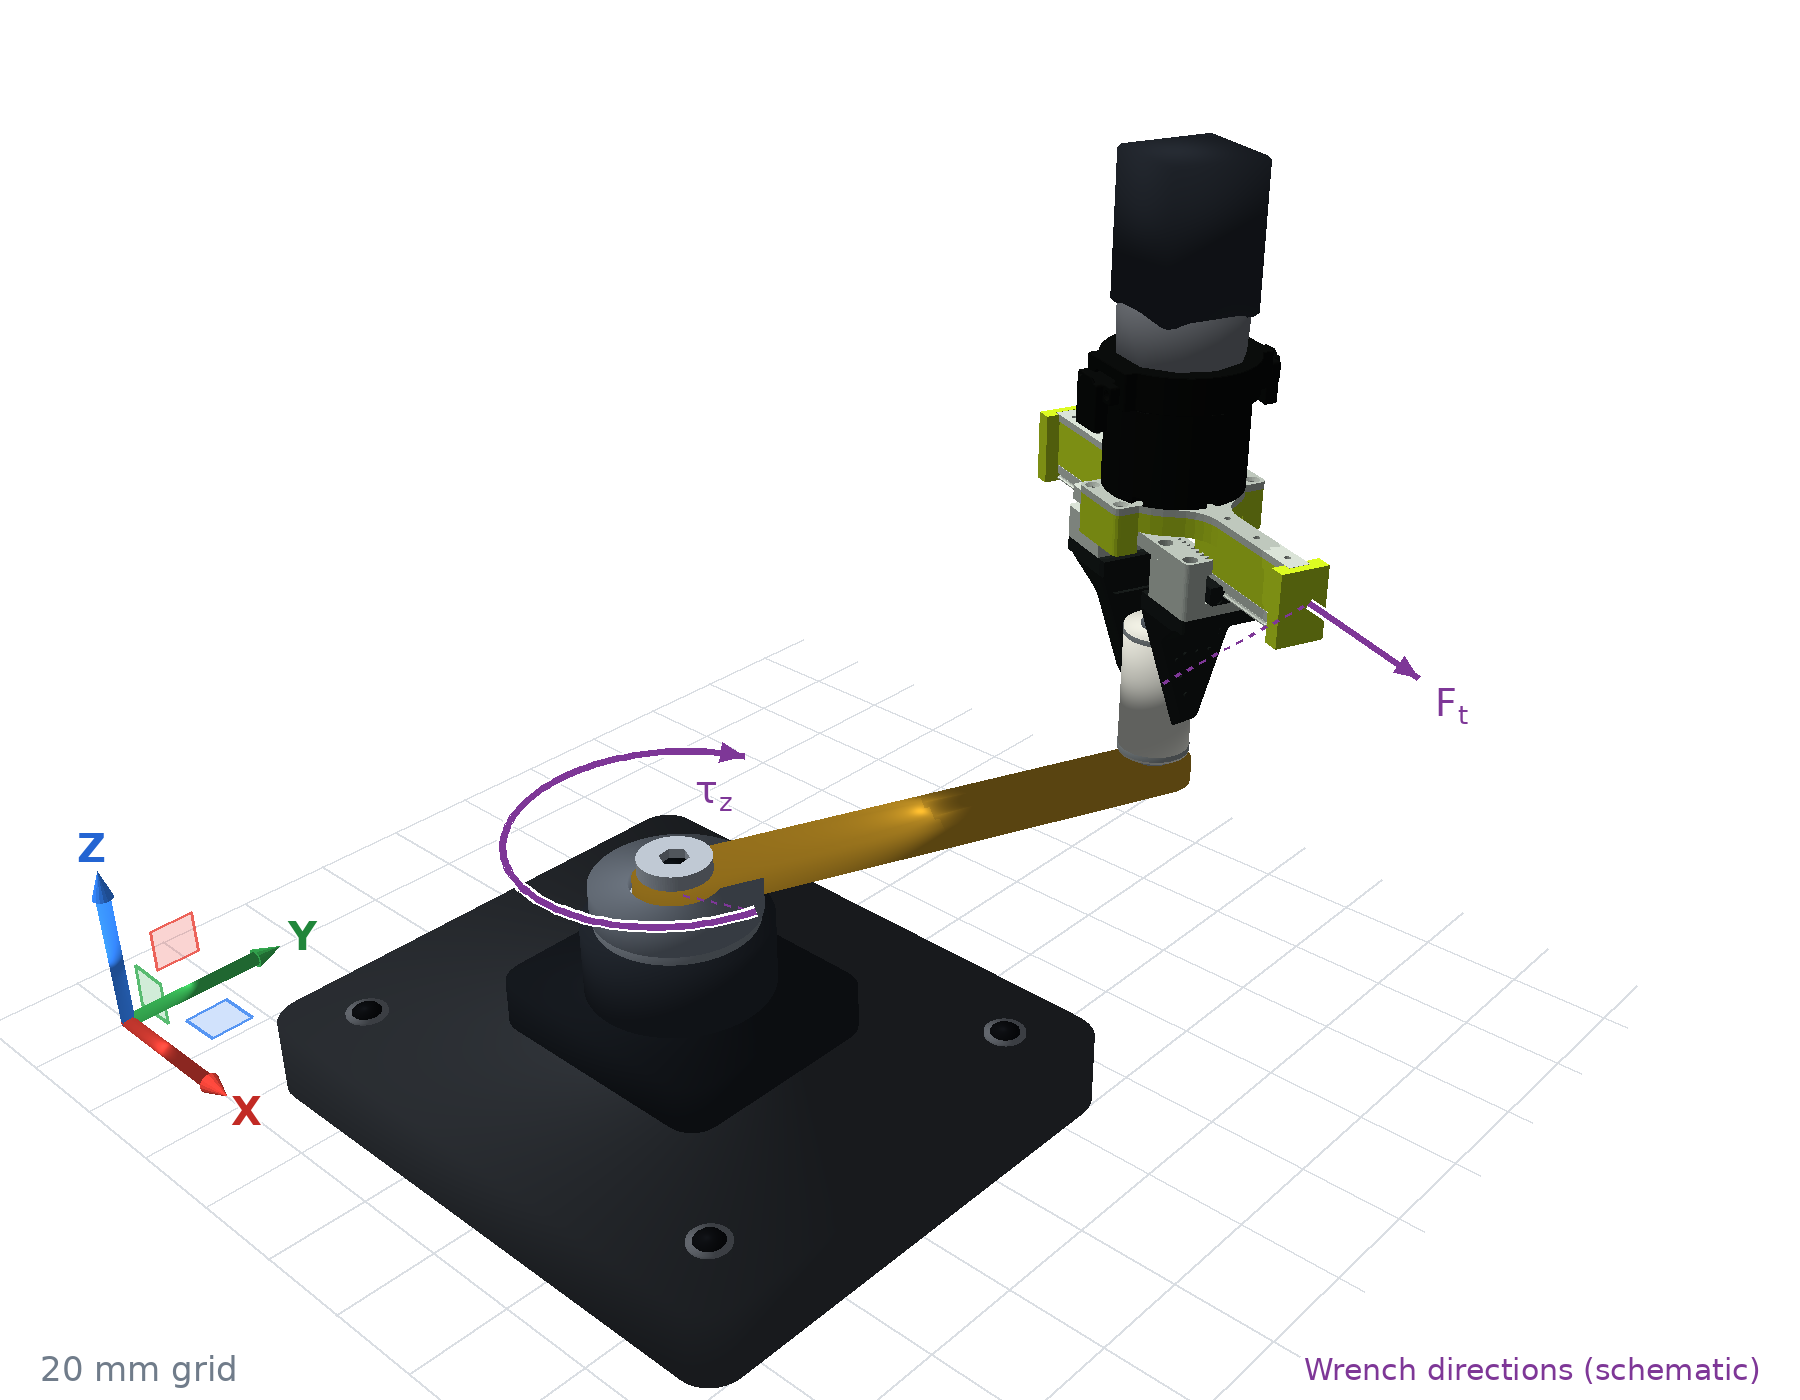
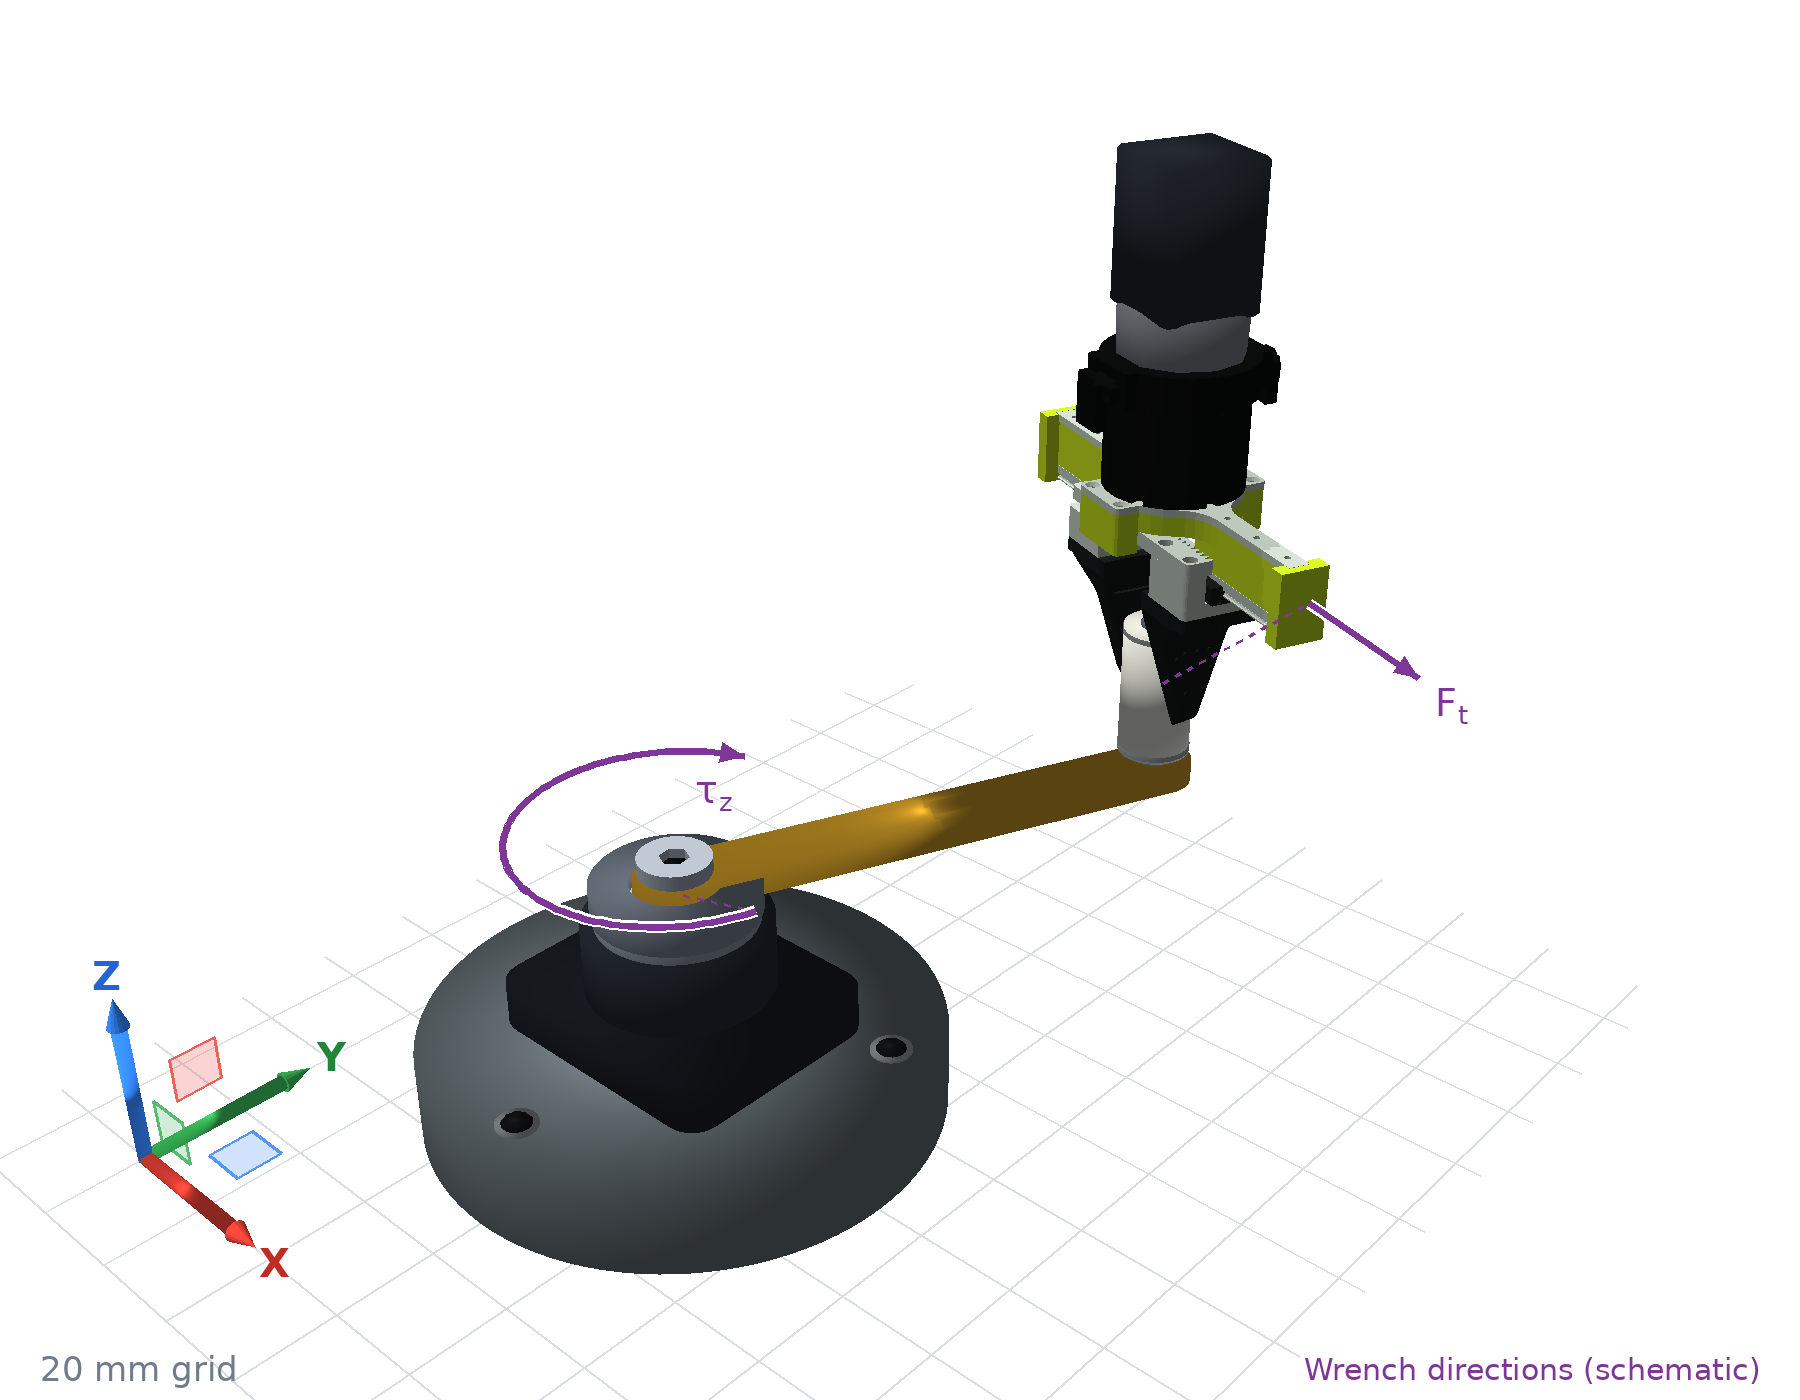
Give CRANK a circular bearing pedestal

Changed region(s): [[0.0311, 0.5836, 0.6222, 1.0], [0.1556, 0.645, 0.1867, 0.6757]]

diff --git a/scripts/render_crank_workspace_b601.py b/scripts/render_crank_workspace_b601.py
@@ -34,11 +34,12 @@ def render(*, output_dir=DEFAULT_OUTPUT_DIR, provenance_path=DEFAULT_PROVENANCE,
     q = p.getQuaternionFromEuler([0, 0, theta])
     cid = p.connect(p.DIRECT)
     try:
-        fixture = rounded_box(cid, [0.061, 0.052, 0.008], [0, 0, -0.008], [0.22, 0.24, 0.27, 1], radius=0.007)
-        for x in (-0.047, 0.047):
-            for y in (-0.038, 0.038):
-                annulus(cid, 0.002, 0.004, 0.0005, [x, y, 0.00025], [0.53, 0.56, 0.60, 1])
-                b601.make_cyl(cid, 0.002, 0.00025, [x, y, 0.0001], [0.06, 0.07, 0.085, 1])
+        # Circular bearing pedestal distinguishes the rotary fixture.
+        fixture = annulus(cid,0,.050,.016,[0,0,-.008],[.40,.44,.47,1])
+        for angle in (math.radians(30),math.radians(150),math.radians(270)):
+            x,y=.040*math.cos(angle),.040*math.sin(angle)
+            annulus(cid,.002,.004,.0005,[x,y,.00025],[.63,.66,.68,1])
+            b601.make_cyl(cid,.002,.0002,[x,y,.0001],[.075,.09,.10,1])
         rounded_box(cid, [0.027, 0.023, 0.005], [0, 0, 0.005], [0.11, 0.13, 0.16, 1], radius=0.006)
         annulus(cid, 0.0095, 0.018, 0.014, [0, 0, 0.017], [0.15, 0.175, 0.21, 1])
         annulus(cid, 0.009, 0.0155, 0.0015, [0, 0, 0.0245], [0.55, 0.59, 0.64, 1])
@@ -135,6 +136,7 @@ def render(*, output_dir=DEFAULT_OUTPUT_DIR, provenance_path=DEFAULT_PROVENANCE,
                 camera=camera,
                 grasp=grasp,
                 **metadata(wrenches),
+                fixture_material="circular metal bearing pedestal with three flange mounts",
                 handle_geometry="explicit radius mesh",
                 theta_raw_rad=theta_raw,
                 theta_display_rad=theta,
